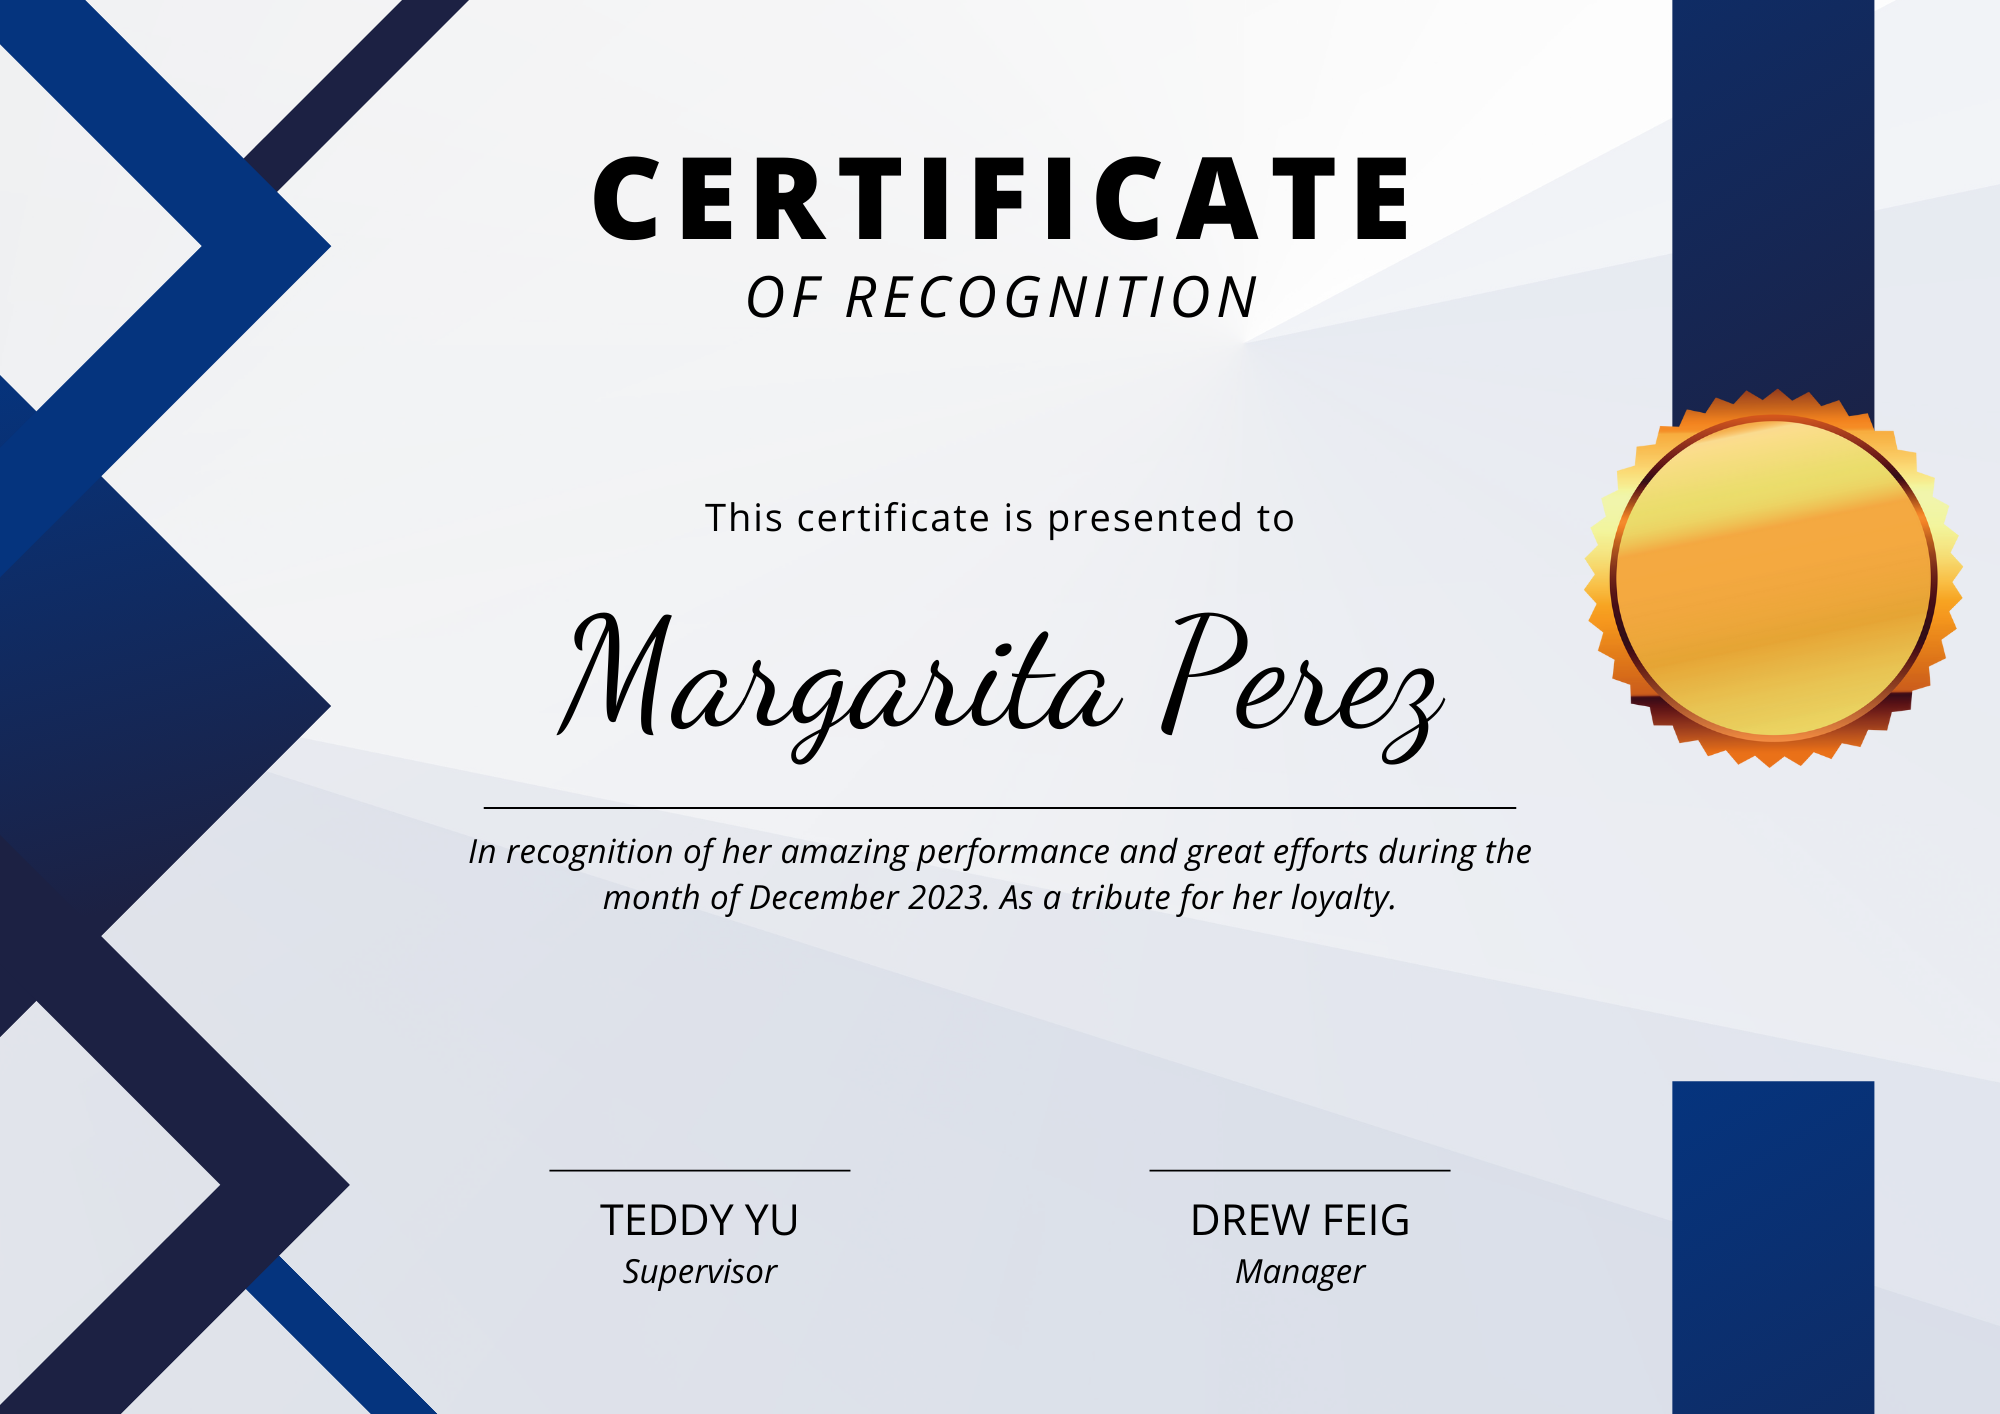
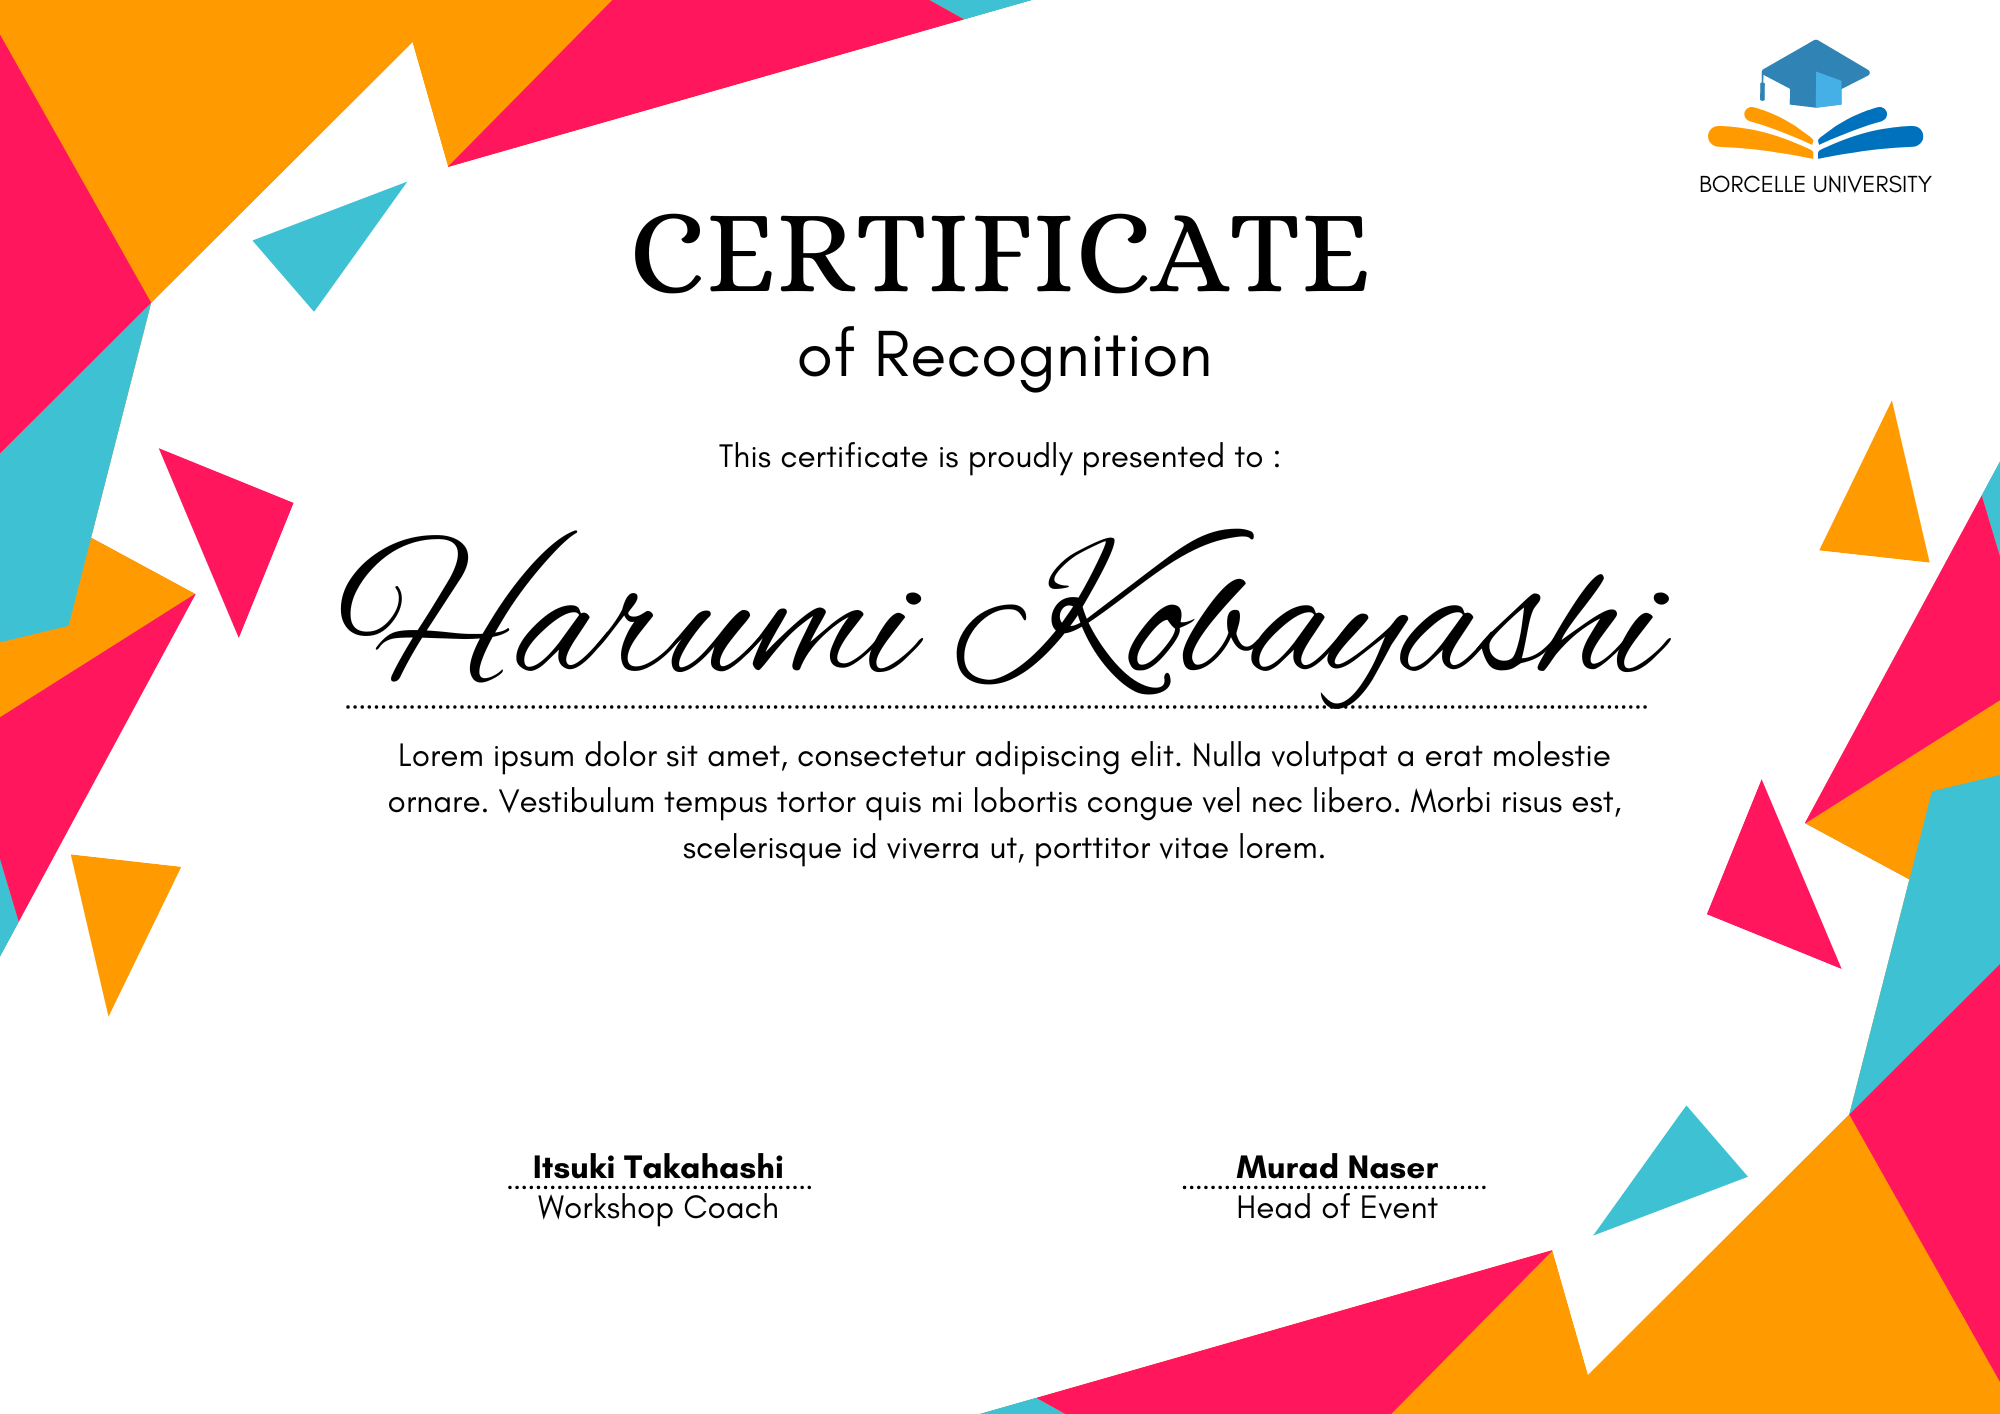
feat: created recognition certificate

diff --git a/src/app/template-four-form/template-four-form.component.ts b/src/app/template-four-form/template-four-form.component.ts
@@ -21,29 +21,17 @@ import { MatProgressSpinnerModule } from '@angular/material/progress-spinner';
      </mat-form-field>
 
      <mat-form-field appearance="fill">
-      <mat-label>month</mat-label>
-      <input formControlName="month" type="text" matInput>
-      <mat-error>Month is required</mat-error>
+      <mat-label>Workshop Coach</mat-label>
+      <input formControlName="coach" type="text" matInput>
+      <mat-error>This field is required</mat-error>
      </mat-form-field>
 
      <mat-form-field appearance="fill">
-      <mat-label>year</mat-label>
-      <input formControlName="year" type="text" matInput>
-      <mat-error>year is required</mat-error>
+      <mat-label>Head of Event</mat-label>
+      <input formControlName="head" type="text" matInput>
+      <mat-error>This field is required</mat-error>
      </mat-form-field>
 
-     <mat-form-field appearance="fill">
-      <mat-label>supervisor</mat-label>
-      <input formControlName="supervisor" type="text" matInput>
-      <mat-error>supervisor is required</mat-error>
-     </mat-form-field>
-
-     <mat-form-field appearance="fill">
-      <mat-label>manager</mat-label>
-      <input formControlName="manager" type="text" matInput>
-      <mat-error>manager is required</mat-error>
-     </mat-form-field>
-     </form>
 
      @if (download) {
         <button mat-raised-button color="primary" (click)="downloadPdf()">
@@ -60,6 +48,7 @@ import { MatProgressSpinnerModule } from '@angular/material/progress-spinner';
         }
       </button>
       }
+      </form>
   `,
 })
 export class TemplateFourFormComponent {
@@ -70,10 +59,8 @@ export class TemplateFourFormComponent {
 
   form = this.fb.group({
     name: ['', Validators.required],
-    month: ['', Validators.required],
-    year: ['', Validators.required],
-    supervisor: ['', Validators.required],
-    manager: ['', Validators.required]
+    coach: ['', Validators.required],
+    head: ['', Validators.required],
   });
 
   http = inject(HttpClient);
@@ -86,10 +73,8 @@ export class TemplateFourFormComponent {
         'http://localhost:8080/certificates/generate-recognition-certificate',
         {
           name: this.form.value.name,
-          month: this.form.value.month,
-          year: this.form.value.year,
-          supervisor: this.form.value.supervisor,
-          manager: this.form.value.manager
+          head: this.form.value.head,
+          coach: this.form.value.coach,
         }
       )
       .subscribe(() => {

diff --git a/src/app/template-three-form/template-three-form.component.ts b/src/app/template-three-form/template-three-form.component.ts
@@ -23,13 +23,13 @@ import { MatProgressSpinnerModule } from '@angular/material/progress-spinner';
      <mat-form-field appearance="fill">
       <mat-label>Founder</mat-label>
       <input formControlName="founder" type="text" matInput>
-      <mat-error>description is required</mat-error>
+      <mat-error>Founder is required</mat-error>
      </mat-form-field>
 
      <mat-form-field appearance="fill">
       <mat-label>Manager</mat-label>
       <input formControlName="manager" type="text" matInput>
-      <mat-error>year is required</mat-error>
+      <mat-error>Manager is required</mat-error>
      </mat-form-field>
 
     
@@ -49,6 +49,7 @@ import { MatProgressSpinnerModule } from '@angular/material/progress-spinner';
         }
       </button>
       }
+     </form>
 
   `,
 })

diff --git a/src/app/template-one-form/template-one-form.component.ts b/src/app/template-one-form/template-one-form.component.ts
@@ -39,7 +39,7 @@ import { saveAs } from 'file-saver';
       <mat-form-field appearance="fill">
         <mat-label>Representative 2</mat-label>
         <input name="naam" formControlName="repre2" type="text" matInput />
-      <mat-error>Instructor is required</mat-error>
+      <mat-error>This field is required</mat-error>
       </mat-form-field>
 
       @if (download) {
